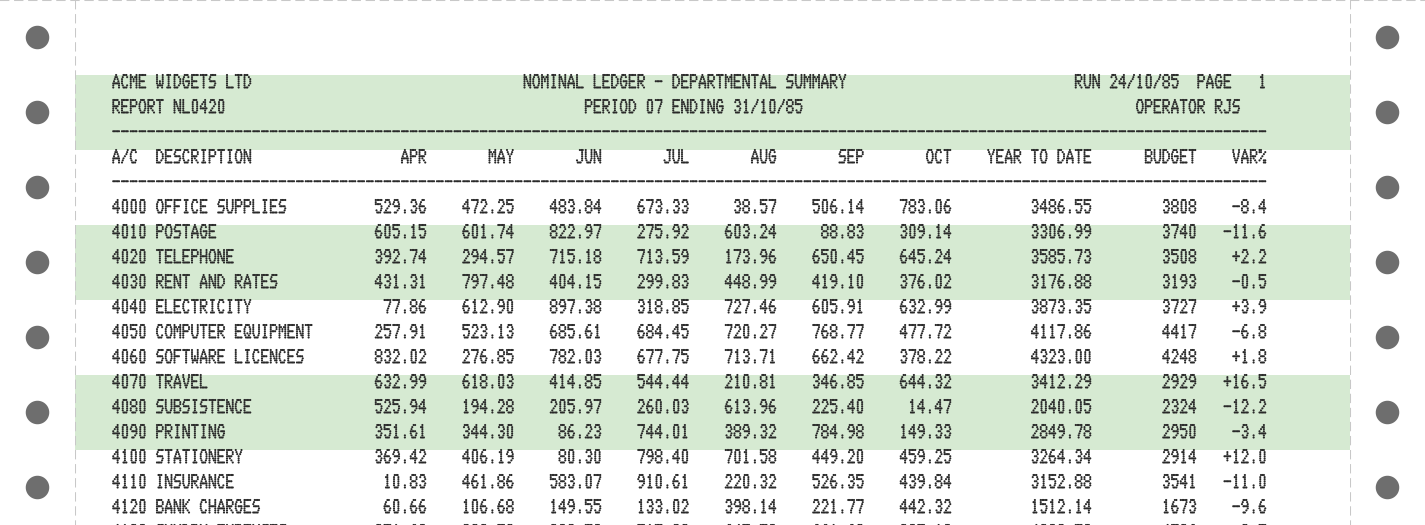
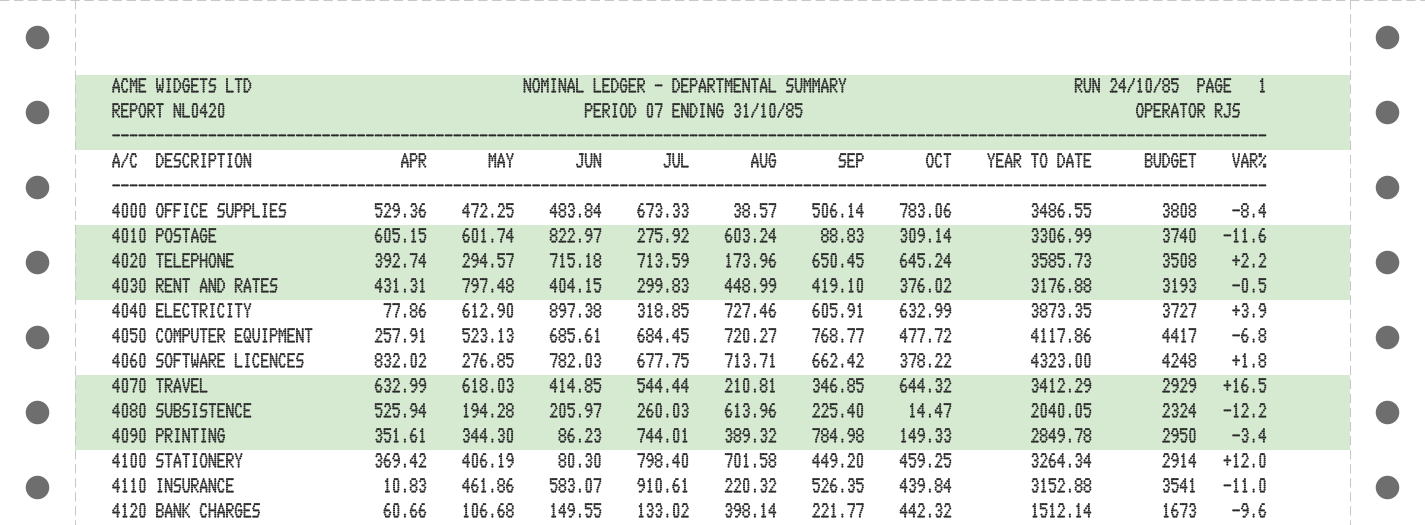
Centre each three lines in listing paper's bands by default
At a top offset of 1/2 inch the first line's capitals touched the top of
the first green band. Three lines of draft, capitals to descenders, are
32/72 inch deep, so starting 1/36 inch lower, at 19/36, leaves equal
room above and below in each half-inch band. The music-ruled rules move
onto the band edges and every sixth of an inch between, which now falls
in the gaps between lines. The golden pages and README samples are
regenerated.

Changed region(s): [[0.0618, 0.1219, 0.8954, 1.0]]

diff --git a/packages/papyrium-core/src/papyrium/core/stationery.py b/packages/papyrium-core/src/papyrium/core/stationery.py
@@ -4,8 +4,8 @@ Continuous fanfold paper has a half-inch tear-off strip down each side,
 punched with feed holes every half inch and perforated where it tears off,
 and a perforation across the top of each sheet. Listing paper is also
 printed: green-bar and blue-bar paper tint alternate half-inch bands, three
-lines at six lines per inch, and music-ruled paper rules alternate bands
-between their lines.
+lines at six lines per inch, and music-ruled paper rules the edges of
+alternate bands and every line between.
 
 A stationery's features are plain shapes, rectangles and circles, so every
 output can draw them under the dots without knowing what they mean.
@@ -27,12 +27,11 @@ HOLE_PITCH = inches(1) // 2
 HOLE_DIAMETER = inches(5) // 32
 #: The height of each band of listing paper: three lines at six per inch.
 BAND_HEIGHT = inches(1) // 2
-#: Ruled lines on music-ruled paper: one per line, 1/144 inch thick, each
-#: 1/36 inch above a line printed from the band's top, so in the gap
-#: between the descenders of one line and the capitals of the next.
+#: Ruled lines on music-ruled paper: one per line, 1/144 inch thick. Lines
+#: printed 1/36 inch below a band's top, centred in the band, have each rule
+#: in the gap between one line's descenders and the next line's capitals.
 RULE_PITCH = inches(1) // 6
 RULE_THICKNESS = inches(1) // 144
-RULE_RAISE = inches(1) // 36
 #: The paper between the strips, or a whole cut sheet: 8.5 inches.
 PAPER_WIDTH = inches(17) // 2
 #: Perforations: short cuts with ties between.
@@ -101,7 +100,7 @@ class Stationery:
                 if self.ruled:
                     features.extend(
                         Rectangle(left, y, right - left, RULE_THICKNESS, self.band_colour)
-                        for y in range(top - RULE_RAISE, bottom - RULE_RAISE + 1, RULE_PITCH)
+                        for y in range(top, bottom + 1, RULE_PITCH)
                         if y + RULE_THICKNESS <= height
                     )
                 else:
@@ -148,7 +147,7 @@ STATIONERY = {
         ),
         Stationery(
             "music-ruled",
-            "Listing paper with alternate bands ruled in green between the lines",
+            "Listing paper with alternate bands ruled in green, a rule to each line",
             strips=True,
             band_colour=GREEN_RULE,
             ruled=True,

diff --git a/packages/papyrium-model-epson-fx80/tests/test_epson_fx80.py b/packages/papyrium-model-epson-fx80/tests/test_epson_fx80.py
@@ -36,7 +36,7 @@ def test_defaults_match_the_factory_switch_settings():
     assert mechanism.auto_line_feed is False
     assert mechanism.character_set is CharacterSet.USA
     assert mechanism.sheet_length == 11 * 4320
-    assert mechanism.top_offset == 4320 // 2
+    assert mechanism.top_offset == 4320 * 19 // 36
     assert mechanism.slashed_zero is False
     assert mechanism.stationery.name == "fanfold"
     assert mechanism.font.name == "draft-9"
@@ -120,3 +120,16 @@ def test_character_set_by_number():
 def test_bad_options_are_configuration_errors(options, message):
     with pytest.raises(ConfigurationError, match=message):
         EpsonFx80(name="epson-fx80", **options)
+
+
+def test_three_lines_sit_centred_in_the_first_band_of_listing_paper():
+    from papyrium.core.stationery import BAND_HEIGHT
+
+    model = EpsonFx80(name="epson-fx80", stationery="green-bar")
+    interpreter = model.create_interpreter()
+    (page,) = interpreter.feed(b"Hg\r\n" * 3 + b"\x0c")
+    radius = page.dot_diameter // 2
+    top = min(y for _, y in page.dots) - radius
+    bottom = max(y for _, y in page.dots) + radius
+    # The band runs from 1/2 to 1 inch; the ink has equal room above and below.
+    assert top - BAND_HEIGHT == 2 * BAND_HEIGHT - bottom

diff --git a/packages/papyrium-model-brother-m1109/tests/test_brother_m1109.py b/packages/papyrium-model-brother-m1109/tests/test_brother_m1109.py
@@ -75,8 +75,8 @@ def test_fanfold_is_9_5_inches_wide_by_default():
     assert mechanism.left_offset == 3 * 4320 // 4
 
 
-def test_the_first_line_is_half_an_inch_below_the_top_of_the_sheet():
-    assert _mechanism().top_offset == 4320 // 2
+def test_the_first_line_is_19_36_inch_below_the_top_of_the_sheet():
+    assert _mechanism().top_offset == 4320 * 19 // 36
 
 
 def test_mode_i_differs_from_the_fx80():
@@ -131,3 +131,16 @@ def test_options_from_strings():
 def test_bad_options_are_configuration_errors(options, message):
     with pytest.raises(ConfigurationError, match=message):
         BrotherM1109(name="brother-m1109", **options)
+
+
+def test_three_lines_sit_centred_in_the_first_band_of_listing_paper():
+    from papyrium.core.stationery import BAND_HEIGHT
+
+    model = BrotherM1109(name="brother-m1109", stationery="green-bar")
+    interpreter = model.create_interpreter()
+    (page,) = interpreter.feed(b"Hg\r\n" * 3 + b"\x0c")
+    radius = page.dot_diameter // 2
+    top = min(y for _, y in page.dots) - radius
+    bottom = max(y for _, y in page.dots) + radius
+    # The band runs from 1/2 to 1 inch; the ink has equal room above and below.
+    assert top - BAND_HEIGHT == 2 * BAND_HEIGHT - bottom

diff --git a/packages/papyrium-model-epson-fx80/src/papyrium/model/epson_fx80/__init__.py b/packages/papyrium-model-epson-fx80/src/papyrium/model/epson_fx80/__init__.py
@@ -25,9 +25,9 @@ class EpsonFx80(PrinterModel):
     user-defined-characters (yes, switch 1-4 off), high-codes-printable
     (no: power on as if ESC 6 were sent), form-length in inches (11),
     paper-width in inches (9.5: standard fanfold, 8.5 inches between its
-    tear-off strips; 8.5 for a sheet), top-offset in inches (1/2: how far
-    below the perforation the operator wound the paper before switching
-    on),
+    tear-off strips; 8.5 for a sheet), top-offset in inches (19/36: how
+    far below the perforation the operator wound the paper before
+    switching on, centring lines in listing paper's bands),
     stationery (fanfold: plain, with tear-off strips; also sheet,
     green-bar, blue-bar and music-ruled), and font (draft-9), the dot font
     standing in for Epson's character ROM. The line is centred across the
@@ -49,7 +49,7 @@ class EpsonFx80(PrinterModel):
         software_select: bool = False,
         user_defined_characters: bool = True,
         paper_width: str | None = None,
-        top_offset: str = "1/2",
+        top_offset: str = "19/36",
         stationery: str = "fanfold",
         font: str = "draft-9",
         **kwargs,

diff --git a/packages/papyrium-model-brother-m1109/src/papyrium/model/brother_m1109/__init__.py b/packages/papyrium-model-brother-m1109/src/papyrium/model/brother_m1109/__init__.py
@@ -35,7 +35,7 @@ class BrotherM1109(PrinterModel):
     1-9), slashed-zero (no, switch 2-6 off), near-letter-quality (no,
     switch 1-10: power on in NLQ), paper-width in inches (8.5: a Letter cut
     sheet, or 9.5 for stationery with tear-off strips), top-offset in
-    inches (1/2), stationery (sheet: no tear-off strips; fanfold and the
+    inches (19/36), stationery (sheet: no tear-off strips; fanfold and the
     listing papers with the PF-50 pin feed unit), font (m1109-draft,
     Brother's characters reconstructed from printed output) and nlq-font
     (m1109-nlq, its near letter quality characters, likewise). The line is
@@ -53,7 +53,7 @@ class BrotherM1109(PrinterModel):
         slashed_zero: bool = False,
         near_letter_quality: bool = False,
         paper_width: str | None = None,
-        top_offset: str = "1/2",
+        top_offset: str = "19/36",
         stationery: str = "sheet",
         font: str = "m1109-draft",
         nlq_font: str = "m1109-nlq",

diff --git a/packages/papyrium-core/tests/test_stationery.py b/packages/papyrium-core/tests/test_stationery.py
@@ -40,14 +40,12 @@ def test_green_bar_tints_alternate_half_inch_bands_between_the_strips():
     assert colour[1] > colour[0] and colour[1] > colour[2]
 
 
-def test_music_ruled_rules_between_the_lines_of_alternate_bands():
+def test_music_ruled_rules_the_edges_of_alternate_bands_and_every_line_between():
     features = stationery_named("music-ruled").features(WIDTH, HEIGHT)
     rules = [f for f in features if isinstance(f, Rectangle) and f.width == WIDTH - 2 * HALF_INCH]
     line = inches(1) // 6
-    # Lines printed from the band's top have a rule 1/36 inch above each,
-    # clear of the tops of their capitals, and one below the last.
     first_band = [rule.y for rule in rules if 0 < rule.y <= 2 * HALF_INCH]
-    assert first_band == [HALF_INCH - inches(1) // 36 + n * line for n in range(4)]
+    assert first_band == [HALF_INCH + n * line for n in range(4)]
 
 
 def test_paper_with_tear_off_strips_is_wider_by_the_strips():

diff --git a/packages/papyrium-output-png/tests/test_png.py b/packages/papyrium-output-png/tests/test_png.py
@@ -155,9 +155,9 @@ def test_a_band_edge_across_a_pixel_tints_it_by_the_share_covered(tmp_path):
 def test_a_rule_thinner_than_a_pixel_is_a_pale_line(tmp_path):
     from papyrium.core.stationery import GREEN_RULE
 
-    # At 72 dpi a 1/144 inch rule is half a pixel; the first starts 34 pixels down.
+    # At 72 dpi a 1/144 inch rule is half a pixel; the first starts 36 pixels down.
     with Image.open(_render(tmp_path, _stationery_page("music-ruled"), dpi=72)) as image:
-        assert _close(image.getpixel((200, 34)), _blend(GREEN_RULE, 0.5))
+        assert _close(image.getpixel((200, 36)), _blend(GREEN_RULE, 0.5))
 
 
 def test_a_feed_hole_has_a_soft_edge(tmp_path):

diff --git a/packages/papyrium-model-epson-fx80/README.md b/packages/papyrium-model-epson-fx80/README.md
@@ -22,7 +22,7 @@ the printer's DIP switches and paper:
 | `software-select` | `no` | Obey DC1 and DC3; otherwise the printer is always selected |
 | `user-defined-characters` | `yes` | The RAM holds user-defined characters; `no` makes it a buffer and `ESC %` is ignored |
 | `paper-width` | `9.5`, or `8.5` for `sheet` | Paper width in inches, tear-off strips included; the line is centred on it |
-| `top-offset` | `1/2` | Inches from the perforation to the top of the first line, where the paper was wound before switching on |
+| `top-offset` | `19/36` | Inches from the perforation to the top of the first line, where the paper was wound before switching on |
 | `stationery` | `fanfold` | The paper: `fanfold` (plain, with tear-off strips), `sheet` (no strips), `green-bar`, `blue-bar`, `music-ruled` |
 | `font` | `draft-9` | The dot font standing in for the character ROM: an installed font's name, or the path of a dot font file |
 

diff --git a/packages/papyrium-model-brother-m1109/README.md b/packages/papyrium-model-brother-m1109/README.md
@@ -19,7 +19,7 @@ model the printer's DIP switches and paper:
 | `slashed-zero` | `no` | Print zero with a slash (switch 2-6 off) |
 | `near-letter-quality` | `no` | Power on printing near letter quality (switch 1-10) |
 | `paper-width` | `8.5`, or `9.5` with tear-off strips | Paper width in inches; the line is centred on it |
-| `top-offset` | `1/2` | Inches from the top of the sheet to the top of the first line |
+| `top-offset` | `19/36` | Inches from the top of the sheet to the top of the first line |
 | `stationery` | `sheet` | The paper: `sheet` (a cut sheet), or with the PF-50 pin feed unit `fanfold`, `green-bar`, `blue-bar`, `music-ruled` |
 | `nlq-font` | `m1109-nlq` | The near letter quality characters: an 18 x 24 dot font's name or file |
 | `font` | `m1109-draft` | The dot font standing in for the character ROM: an installed font's name, or the path of a dot font file |

diff --git a/docs/epson-fx80.md b/docs/epson-fx80.md
@@ -35,9 +35,11 @@ so that the first line prints just below the perforation; the manual
 gives no exact distance.
 
 Papyrium models this with the FX-80's `top-offset` option, the distance
-from the perforation to the top of the first line, 1/2 inch by default:
-three lines, so that on listing paper the first line falls in the first
-band and, on music-ruled paper, between its rules.
+from the perforation to the top of the first line, 19/36 inch by default.
+Listing paper's first band starts half an inch down, and three lines of
+draft, capitals to descenders, are 32/72 inch deep, so 1/36 inch more
+centres each run of three lines in its half-inch band and puts
+music-ruled paper's rules in the gaps between lines.
 
 ## Paper (T 23-24; R 327-328)
 
